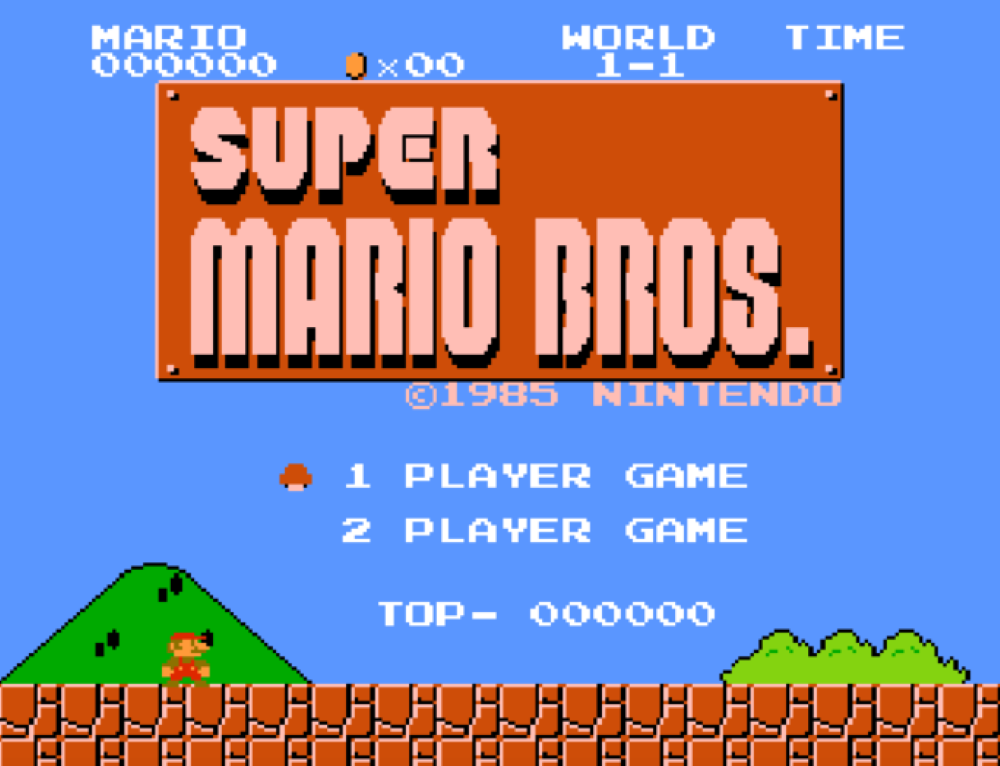
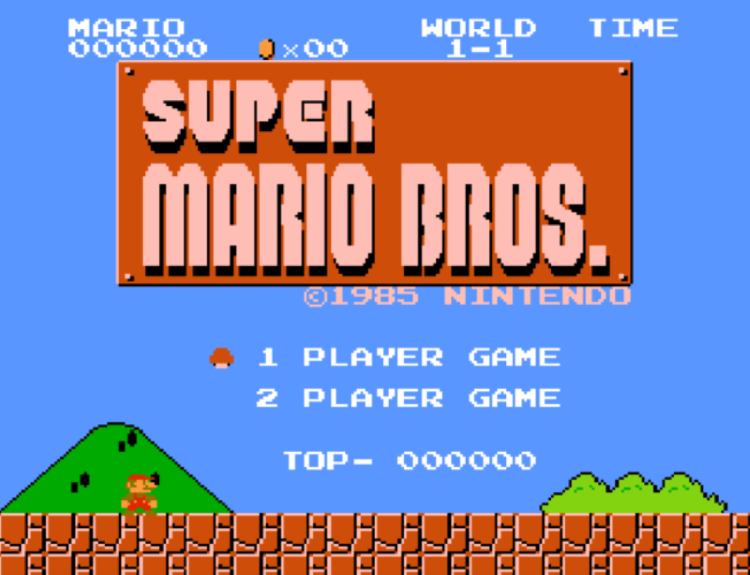
프레임워크 적용 완료

diff --git a/object.py b/object.py
@@ -1,46 +1,5 @@
 from pico2d import *
-
-class character:
-    def __init__(self):
-        self.image = load_image('smb_mario.png')
-        self.x, self.y = 400, 90
-        self.j = -15
-        self.frame = 0
-        self.state = 5
-        self.dir = 0
-        self.dr = 1
-
-    def update(self):
-        if self.frame != 5:
-            self.x += self.dir * 10
-            self.frame = (self.frame + 1) % 3
-        else:
-            self.y -= 5
-            self.frame = 5
-        if self.j > 0:
-            self.y += self.j
-            self.j -= 1
-        elif self.j <= 0 and self.j > -15:
-            self.j -= 1
-            self.y += self.j
-        else:
-            self.j = -15
-
-    def draw(self):
-        if self.frame == 5:
-            self.image.clip_draw(780, self.state * 66, 64, 66, self.x, self.y)
-        elif self.dr == 1 and self.dir != 0 and self.j == -15:
-            self.image.clip_draw(self.frame * 60 + 480, self.state * 66, 64, 66, self.x, self.y)
-        elif self.dr == -1 and self.dir != 0 and self.j == -15:
-            self.image.clip_draw(self.frame * -60 + 300, self.state * 66, 64, 66, self.x, self.y)
-        elif self.dr == 1 and self.dir == 0 and self.j == -15:
-            self.image.clip_draw(420, self.state * 66, 64, 66, self.x, self.y)
-        elif self.dr == -1 and self.dir == 0 and self.j == -15:
-            self.image.clip_draw(360, self.state * 66, 64, 66, self.x, self.y)
-        elif self.dr == 1 and self.j != -15:
-            self.image.clip_draw(720, self.state * 66, 64, 66, self.x, self.y)
-        elif self.dr != 1 and self.j != -15:
-            self.image.clip_draw(60, self.state * 66, 64, 66, self.x, self.y)
+from character import Character
 
 class item:
     def __init__(self, m, n): #생성자
@@ -48,29 +7,29 @@ class item:
         self.x, self.y = 300, 80
         self.m, self.n = m, n
     def update(self):
-        if character.x <= self.x + 15 and character.x >= self.x - 15:
-            if character.y <= self.y + 15 and character.y >= self.y - 15:
+        if Character.x <= self.x + 15 and Character.x >= self.x - 15:
+            if Character.y <= self.y + 15 and Character.y >= self.y - 15:
                 self.x = -25
                 self.y = -25
-                character.state = 3
+                Character.state = 3
         elif self.x == -25 and self.y == -25:
             self.x = -50
             self.y = -50
-            character.state = 5
+            Character.state = 5
         elif self.x == -50 and self.y == -50:
             self.x = -75
             self.y = -75
-            character.state = 3
+            Character.state = 3
         elif self.x == -75 and self.y == -75:
             self.x = -100
             self.y = -100
-            character.state = 5
+            Character.state = 5
         elif self.x == -100 and self.y == -100:
-            character.state = 3
+            Character.state = 3
     def draw(self):
         self.image.clip_draw(self.m * 60, self.n * 60, 60, 60, self.x, self.y)
 
-class enemy:
+class Enemy:
     def __init__(self):
         self.image = load_image('enemies.png')
         self.x, self.y = 600, 80-2
@@ -92,14 +51,15 @@ class enemy:
         else:
             self.count = -20
             self.dir = -self.dir
-        if character.x <= self.x + 15 and character.x >= self.x - 15:
-            if character.y >= self.y + 20 and character.y <= self.y + 40:
+        if Character.x <= self.x + 15 and Character.x >= self.x - 15:
+            if Character.y >= self.y + 20 and Character.y <= self.y + 40:
                 self.dir = 0
             else:
-                if character.state == 5:
-                    character.frame = 5
+                if Character.state == 5:
+                    Character.frame = 5
+                    Character.j = 15
                 else:
-                    character.state += 2
+                    Character.state += 2
 
         self.frame = (self.frame + 1) % 2
 
@@ -108,4 +68,3 @@ class enemy:
             self.image.clip_draw(self.frame * 60, 480, 60, 60, self.x, self.y)
         else:
             self.image.clip_draw(120, 480, 60, 60, self.x, self.y - 10)
-

diff --git a/character.py b/character.py
@@ -1,0 +1,64 @@
+from pico2d import *
+
+class Character:
+    def __init__(self):
+        self.image = load_image('smb_mario.png')
+        self.x = 400
+        self.y = 90
+        self.j = -15
+        self.frame = 0
+        self.state = 5
+        self.dir = 0
+        self.dr = 1
+
+    def update(self):
+        if self.frame != 5:
+            self.x += self.dir * 10
+            self.frame = (self.frame + 1) % 3
+        else:
+            self.y -= 5
+            self.frame = 5
+        if self.j > 0:
+            self.y += self.j
+            self.j -= 1
+        elif self.j <= 0 and self.j > -15:
+            self.j -= 1
+            self.y += self.j
+        else:
+            self.j = -15
+
+    def draw(self):
+        if self.frame == 5:
+            self.image.clip_draw(780, self.state * 66, 64, 66, self.x, self.y)
+        elif self.dr == 1 and self.dir != 0 and self.j == -15:
+            self.image.clip_draw(self.frame * 60 + 480, self.state * 66, 64, 66, self.x, self.y)
+        elif self.dr == -1 and self.dir != 0 and self.j == -15:
+            self.image.clip_draw(self.frame * -60 + 300, self.state * 66, 64, 66, self.x, self.y)
+        elif self.dr == 1 and self.dir == 0 and self.j == -15:
+            self.image.clip_draw(420, self.state * 66, 64, 66, self.x, self.y)
+        elif self.dr == -1 and self.dir == 0 and self.j == -15:
+            self.image.clip_draw(360, self.state * 66, 64, 66, self.x, self.y)
+        elif self.dr == 1 and self.j != -15:
+            self.image.clip_draw(720, self.state * 66, 64, 66, self.x, self.y)
+        elif self.dr != 1 and self.j != -15:
+            self.image.clip_draw(60, self.state * 66, 64, 66, self.x, self.y)
+
+    def handle_event(self, event):
+        if event.type == SDL_KEYDOWN:
+            if event.key == SDLK_d:
+                self.dir += 1
+                self.dr = 1
+            elif event.key == SDLK_a:
+                self.dr = -1
+                self.dir -= 1
+            elif event.key == SDLK_ESCAPE:
+                running = False
+            elif event.key == SDLK_SPACE:
+                self.j = 15
+        elif event.type == SDL_KEYUP:
+            if event.key == SDLK_d:
+                self.dir -= 1
+            elif event.key == SDLK_a:
+                self.dir += 1
+            elif event.key == SDLK_SPACE:
+                self.j = -self.j

diff --git a/main_state.py b/main_state.py
@@ -6,26 +6,28 @@ from pico2d import *
 import game_framework
 import game_world
 
-from boy import Boy
-from grass import Grass
-from ball import Ball
+from character import Character
+from stage import Stage
+from object import *
 
 
 name = "MainState"
 
-boy = None
-grass = None
+character = None
+stage = None
+enemy = None
 
 def enter():
-    global boy, grass
-    boy = Boy()
-    grass = Grass()
-
+    global character, stage, enemy
+    character = Character()
+    stage = Stage()
+    enemy = Enemy()
 
 def exit():
-    global boy, grass
-    del boy
-    del grass
+    global character, stage
+    del character
+    del stage
+    del enemy
 
 def pause():
     pass
@@ -43,17 +45,19 @@ def handle_events():
         elif event.type == SDL_KEYDOWN and event.key == SDLK_ESCAPE:
                 game_framework.quit()
         else:
-            boy.handle_event(event)
-
+            character.handle_event(event)
 
 def update():
-    boy.update()
+    character.update()
+    #enemy.update()
+    delay(0.02)
 
 
 def draw():
     clear_canvas()
-    grass.draw()
-    boy.draw()
+    stage.draw()
+    character.draw()
+    enemy.draw()
     update_canvas()
 
 

diff --git a/game_world.py b/game_world.py
@@ -1,0 +1,40 @@
+
+# layer 0: Background Objects
+# layer 1: Foreground Objects
+objects = [[],[]]
+
+
+def add_object(o, layer):
+    objects[layer].append(o)
+
+
+def add_objects(l, layer):
+    objects[layer] += l
+
+
+def remove_object(o):
+    for i in range(len(objects)):
+        if o in objects[i]:
+            objects[i].remove(o)
+            del o
+            break
+
+
+
+
+def clear():
+    for o in all_objects():
+        del o
+    for l in objects:
+        l.clear()
+
+def destroy():
+    clear()
+    objects.clear()
+
+
+def all_objects():
+    for i in range(len(objects)):
+        for o in objects[i]:
+            yield o
+

diff --git a/title_state.py b/title_state.py
@@ -29,7 +29,7 @@ def handle_events():
 
 def draw():
     clear_canvas()
-    image.draw(500, 375)
+    image.draw(375, 275)
     update_canvas()
 
 
@@ -37,7 +37,7 @@ def draw():
 
 
 def update():
-    pass
+    delay(0.02)
 
 
 def pause():

diff --git a/main.py b/main.py
@@ -2,11 +2,8 @@ from pico2d import *
 import game_framework
 import title_state
 
-import object
-import stage
-
 # initialization code
 
-open_canvas(1000, 750)
+open_canvas(750, 500)
 game_framework.run(title_state)
 close_canvas()

diff --git a/stage.py b/stage.py
@@ -1,6 +1,7 @@
 from pico2d import *
+from object import *
 
-class bg:
+class Stage:
     def __init__(self): #생성자
         self.image = load_image('bg-1-1.png')
     def draw(self):
